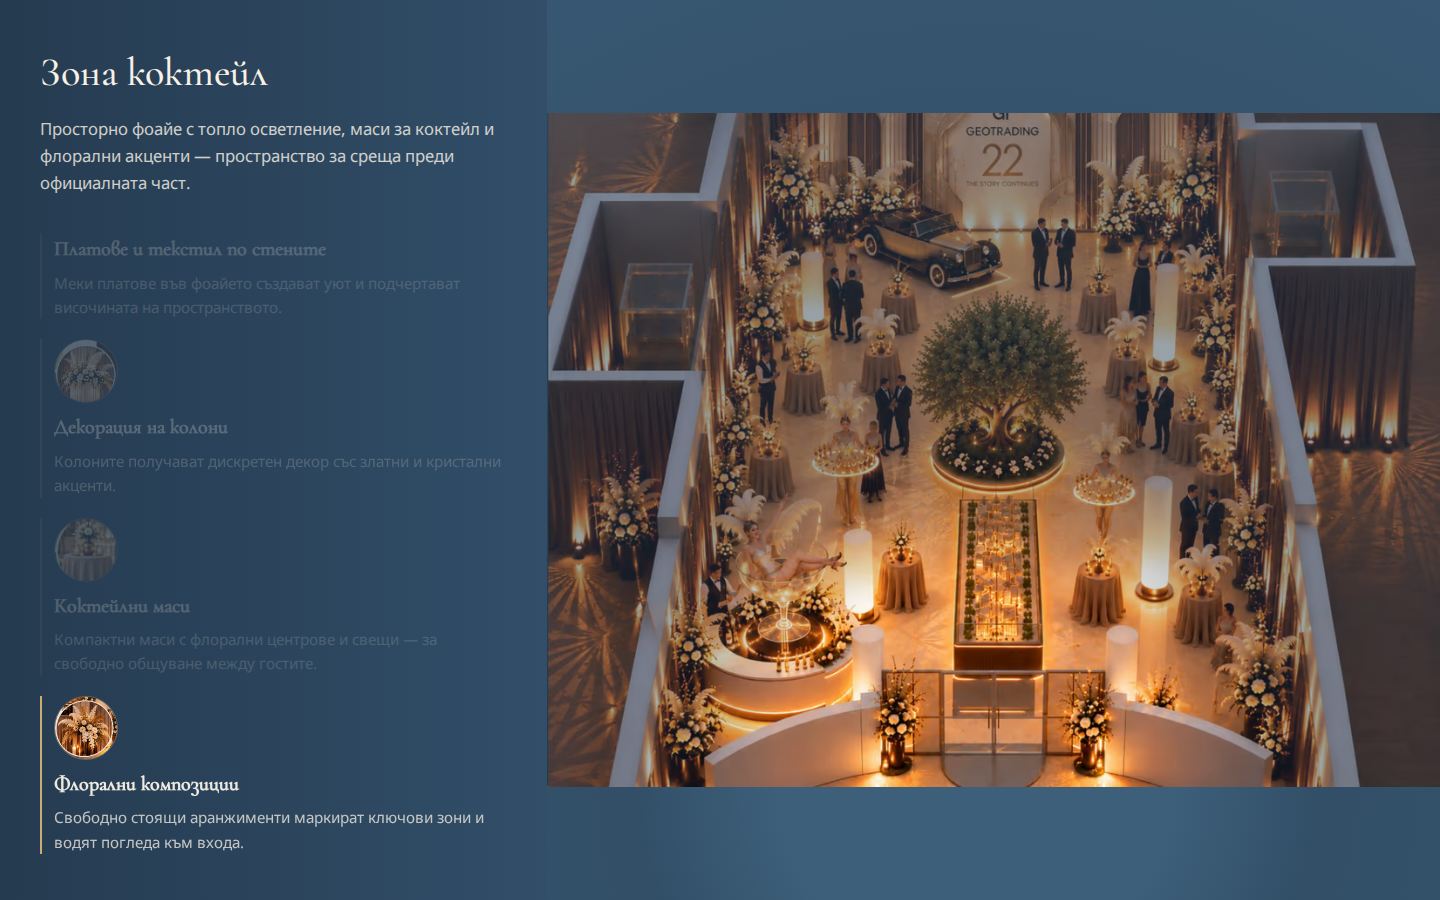
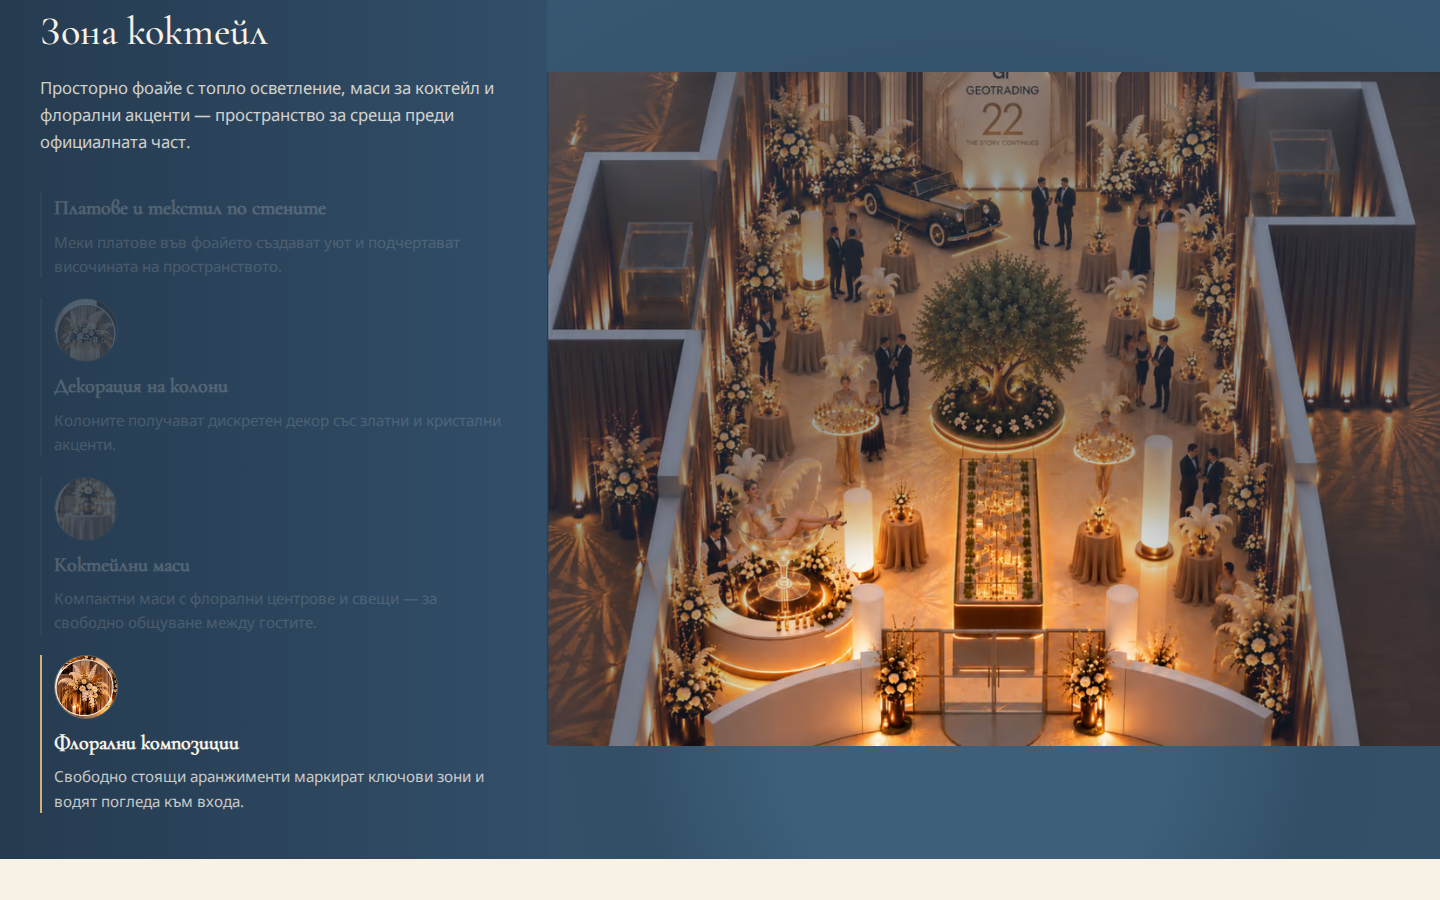
fix(mobile): full-bleed cocktail image and sequential caption fade
Use object-fit cover with scroll-driven object-position on mobile,
single caption panel with 200ms out-then-in transition. Re-capture
mobile-390 and mobile-360 cocktail screenshots at settled scroll.

diff --git a/src/scenes/StickyStoryScene.tsx b/src/scenes/StickyStoryScene.tsx
@@ -1,4 +1,4 @@
-import { useMemo } from 'react';
+import { useEffect, useMemo, useState } from 'react';
 import type { StickyStorySceneData } from '@/content/types';
 import { ResponsivePicture } from '@/components/ResponsivePicture';
 import { useScrollProgress } from '@/lib/useScrollProgress';
@@ -66,6 +66,36 @@ export function StickyStoryScene({ data, treatment, scrollHint }: Props) {
   const showMobileCaption = !isDesktop;
   const mobileAnimate = showMobileCaption && !reduced;
 
+  const [captionBeat, setCaptionBeat] = useState(activeBeat);
+  const [captionVisible, setCaptionVisible] = useState(true);
+
+  useEffect(() => {
+    if (!mobileAnimate) {
+      setCaptionBeat(activeBeat);
+      setCaptionVisible(true);
+      return;
+    }
+    if (activeBeat === captionBeat) return;
+    setCaptionVisible(false);
+    const t = window.setTimeout(() => {
+      setCaptionBeat(activeBeat);
+      window.requestAnimationFrame(() => setCaptionVisible(true));
+    }, 200);
+    return () => window.clearTimeout(t);
+  }, [activeBeat, captionBeat, mobileAnimate]);
+
+  const mobileImageFocus =
+    activeBeat >= 0
+      ? { x: Math.round(focus.fx * 100), y: Math.round(focus.fy * 100) }
+      : { x: 50, y: 36 };
+
+  const visualStyle = !isDesktop
+    ? ({
+        '--mobile-focus-x': `${mobileImageFocus.x}%`,
+        '--mobile-focus-y': `${mobileImageFocus.y}%`,
+      } as React.CSSProperties)
+    : undefined;
+
   return (
     <>
       <section id="scene-cocktail" className="sticky-story" aria-labelledby="cocktail-heading">
@@ -105,8 +135,17 @@ export function StickyStoryScene({ data, treatment, scrollHint }: Props) {
                 </div>
               </div>
 
-              <div className="sticky-story__visual">
-                <ResponsivePicture assetId={data.masterAssetId} objectFit="contain" />
+              <div
+                className={`sticky-story__visual${!isDesktop ? ' sticky-story__visual--mobile-fill' : ''}`}
+                style={visualStyle}
+              >
+                <ResponsivePicture
+                  assetId={data.masterAssetId}
+                  objectFit={isDesktop ? 'contain' : 'cover'}
+                  objectPosition={
+                    isDesktop ? undefined : `${mobileImageFocus.x}% ${mobileImageFocus.y}%`
+                  }
+                />
                 <div
                   className={`sticky-story__fx sticky-story__fx--${treatment}${reduced ? ' is-off' : ''}`}
                   style={overlayStyle}
@@ -134,28 +173,24 @@ export function StickyStoryScene({ data, treatment, scrollHint }: Props) {
                       <>
                         <div className="mobile-caption__body">
                           <div
-                            className={`mobile-caption__panel ${activeBeat < 0 ? 'is-active' : ''}`}
-                            aria-hidden={activeBeat >= 0}
+                            className={`mobile-caption__panel mobile-caption__panel--solo ${captionVisible ? 'is-visible' : ''}`}
                           >
-                            <h2 className="section-title section-title--on-dark section-title--caption">
-                              {data.titleBg}
-                            </h2>
-                            <p className="section-lead section-lead--on-dark mobile-caption__intro">
-                              {data.introBg}
-                            </p>
-                            {activeBeat < 0 && <p className="mobile-caption__hint">{scrollHint}</p>}
-                          </div>
-                          {data.beats.map((beat, i) => (
-                            <div
-                              key={beat.id}
-                              className={`mobile-caption__panel mobile-caption__panel--beat ${activeBeat === i ? 'is-active' : ''}`}
-                              aria-hidden={activeBeat !== i}
-                            >
+                            {captionBeat < 0 ? (
+                              <>
+                                <h2 className="section-title section-title--on-dark section-title--caption">
+                                  {data.titleBg}
+                                </h2>
+                                <p className="section-lead section-lead--on-dark mobile-caption__intro">
+                                  {data.introBg}
+                                </p>
+                                <p className="mobile-caption__hint">{scrollHint}</p>
+                              </>
+                            ) : (
                               <article className="beat beat--caption">
-                                <BeatContent beat={beat} compact />
+                                <BeatContent beat={data.beats[captionBeat]!} compact />
                               </article>
-                            </div>
-                          ))}
+                            )}
+                          </div>
                         </div>
                         <div className="sticky-story__dots" aria-hidden="true">
                           {data.beats.map((beat, i) => (

diff --git a/src/styles/scenes.css b/src/styles/scenes.css
@@ -194,6 +194,10 @@
     position: relative;
   }
 
+  .sticky-story__stage {
+    background: var(--color-navy-mid);
+  }
+
   .sticky-story__visual {
     position: absolute;
     inset: 0;
@@ -203,8 +207,18 @@
     max-height: 100svh;
   }
 
-  .sticky-story__visual img {
-    object-fit: contain !important;
+  .sticky-story__visual--mobile-fill picture {
+    position: absolute;
+    inset: 0;
+    width: 100%;
+    height: 100%;
+  }
+
+  .sticky-story__visual--mobile-fill img {
+    object-fit: cover !important;
+    object-position: var(--mobile-focus-x, 50%) var(--mobile-focus-y, 36%);
+    width: 100%;
+    height: 100%;
   }
 }
 
@@ -252,29 +266,21 @@
   min-height: 6.75rem;
 }
 
-.mobile-caption__panel {
-  position: absolute;
-  left: 0;
-  right: 0;
-  top: 0;
+.mobile-caption__panel--solo {
   opacity: 0;
-  transform: translateY(10px);
-  visibility: hidden;
+  transform: translateY(8px);
   transition: none;
 }
 
-.sticky-story__mobile-caption--animate .mobile-caption__panel {
+.sticky-story__mobile-caption--animate .mobile-caption__panel--solo {
   transition:
-    opacity 0.55s ease,
-    transform 0.55s ease,
-    visibility 0.55s;
+    opacity 0.32s ease,
+    transform 0.32s ease;
 }
 
-.mobile-caption__panel.is-active {
+.mobile-caption__panel--solo.is-visible {
   opacity: 1;
   transform: translateY(0);
-  visibility: visible;
-  position: relative;
 }
 
 .section-title--caption {
@@ -339,7 +345,7 @@
 }
 
 @media (prefers-reduced-motion: reduce) {
-  .sticky-story__mobile-caption--animate .mobile-caption__panel {
+  .sticky-story__mobile-caption--animate .mobile-caption__panel--solo {
     transition: none;
   }
 }

diff --git a/src/components/ResponsivePicture.tsx b/src/components/ResponsivePicture.tsx
@@ -8,9 +8,17 @@ interface Props {
   sizes?: string;
   priority?: boolean;
   objectFit?: 'cover' | 'contain';
+  objectPosition?: string;
 }
 
-export function ResponsivePicture({ assetId, className, sizes = '100vw', priority, objectFit = 'cover' }: Props) {
+export function ResponsivePicture({
+  assetId,
+  className,
+  sizes = '100vw',
+  priority,
+  objectFit = 'cover',
+  objectPosition,
+}: Props) {
   const asset: MediaAsset | undefined = assets[assetId];
   const [vw, setVw] = useState(typeof window !== 'undefined' ? window.innerWidth : 1440);
 
@@ -43,7 +51,7 @@ export function ResponsivePicture({ assetId, className, sizes = '100vw', priorit
         loading={priority ? 'eager' : 'lazy'}
         decoding="async"
         fetchPriority={priority ? 'high' : 'auto'}
-        style={{ width: '100%', height: '100%', objectFit }}
+        style={{ width: '100%', height: '100%', objectFit, objectPosition }}
       />
     </picture>
   );

diff --git a/README.md b/README.md
@@ -122,7 +122,7 @@ Test path already wired: `npm run assets:frames` + `?scrubTest=1`.
 ## Validation
 
 - `npm run validate` — content media paths exist
-- `npm run screenshots` — Playwright desktop (1440) + mobile (iPhone 12): hero, cocktail intro + 4 beats, investment, passage corridor/gala → `docs/screenshots/`
+- `npm run screenshots` — Playwright desktop (1440) + mobile cocktail at **390×844** and **360×640** (intro + beats 1–4, settled 900ms after scroll) → `docs/screenshots/`
 - `npm run build` — **passes** in CI/agent environment
 
 **Not verified here:** real Safari/iOS autoplay/LPM, 55fps scroll profiling, or manual video playback (headless captures layout only).
